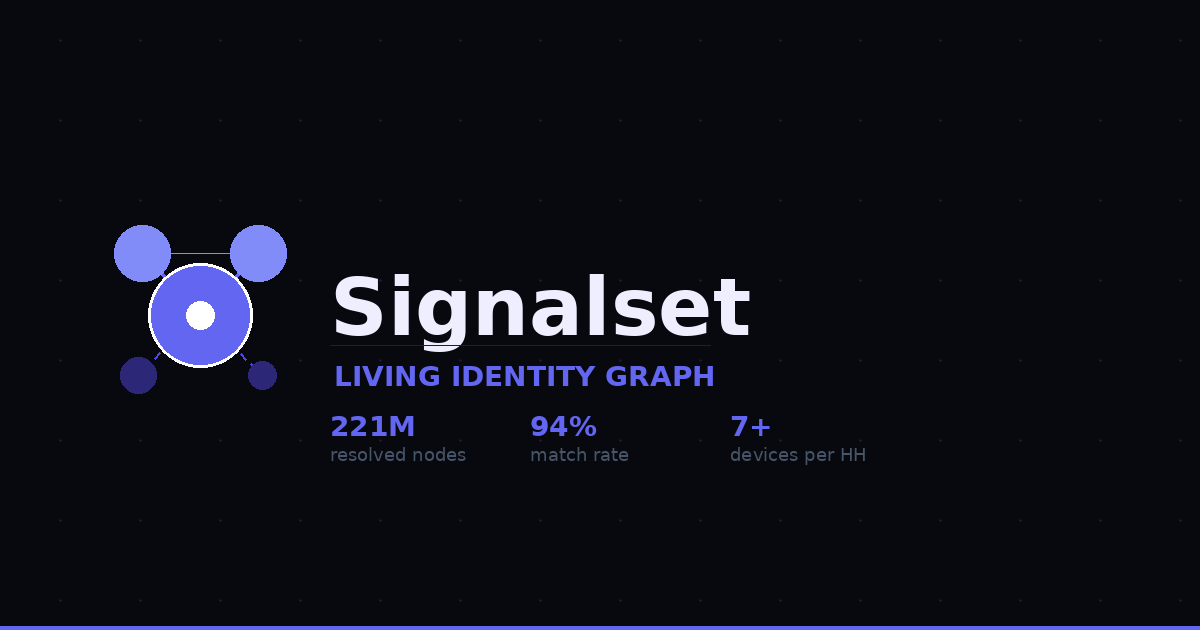
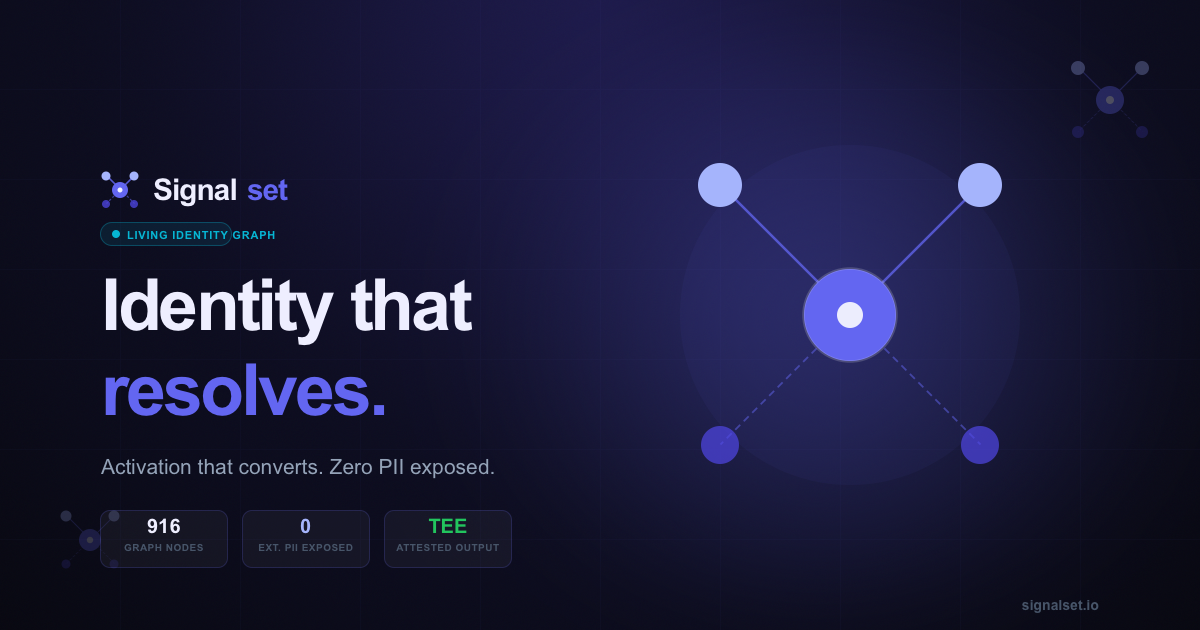
Add files via upload

diff --git a/index.html b/index.html
@@ -10,7 +10,8 @@
   gtag('js', new Date());
   gtag('config', 'G-YGKMGGSVM6');
 </script>
[1 lines of base64/hex data omitted]
+<link rel="apple-touch-icon" href="https://signalset.io/og-image.svg">
[1 lines of base64/hex data omitted]
 <meta name="viewport" content="width=device-width, initial-scale=1.0">
 <title>Signalset — Living Identity Graph</title>
 <!-- SEO -->
@@ -22,7 +23,7 @@
 <meta property="og:url" content="https://signalset.io">
 <meta property="og:title" content="Signalset — Living Identity Graph">
 <meta property="og:description" content="Identity that resolves. Activation that converts. 221M nodes, 94% match rate, zero PII exposed.">
-<meta property="og:image" content="https://signalset.io/og-image.png">
+<meta property="og:image" content="https://signalset.io/og-image.svg">
 <meta property="og:image:width" content="1200">
 <meta property="og:image:height" content="630">
 <meta property="og:site_name" content="Signalset">
@@ -30,7 +31,7 @@
 <meta name="twitter:card" content="summary_large_image">
 <meta name="twitter:title" content="Signalset — Living Identity Graph">
 <meta name="twitter:description" content="Identity that resolves. 221M nodes. 94% match rate. Zero PII exposed.">
-<meta name="twitter:image" content="https://signalset.io/og-image.png">
+<meta name="twitter:image" content="https://signalset.io/og-image.svg">
 <script src="https://unpkg.com/react@18.2.0/umd/react.production.min.js"></script>
 <script src="https://unpkg.com/react-dom@18.2.0/umd/react-dom.production.min.js"></script>
 <script src="https://cdnjs.cloudflare.com/ajax/libs/d3/7.8.5/d3.min.js"></script>
